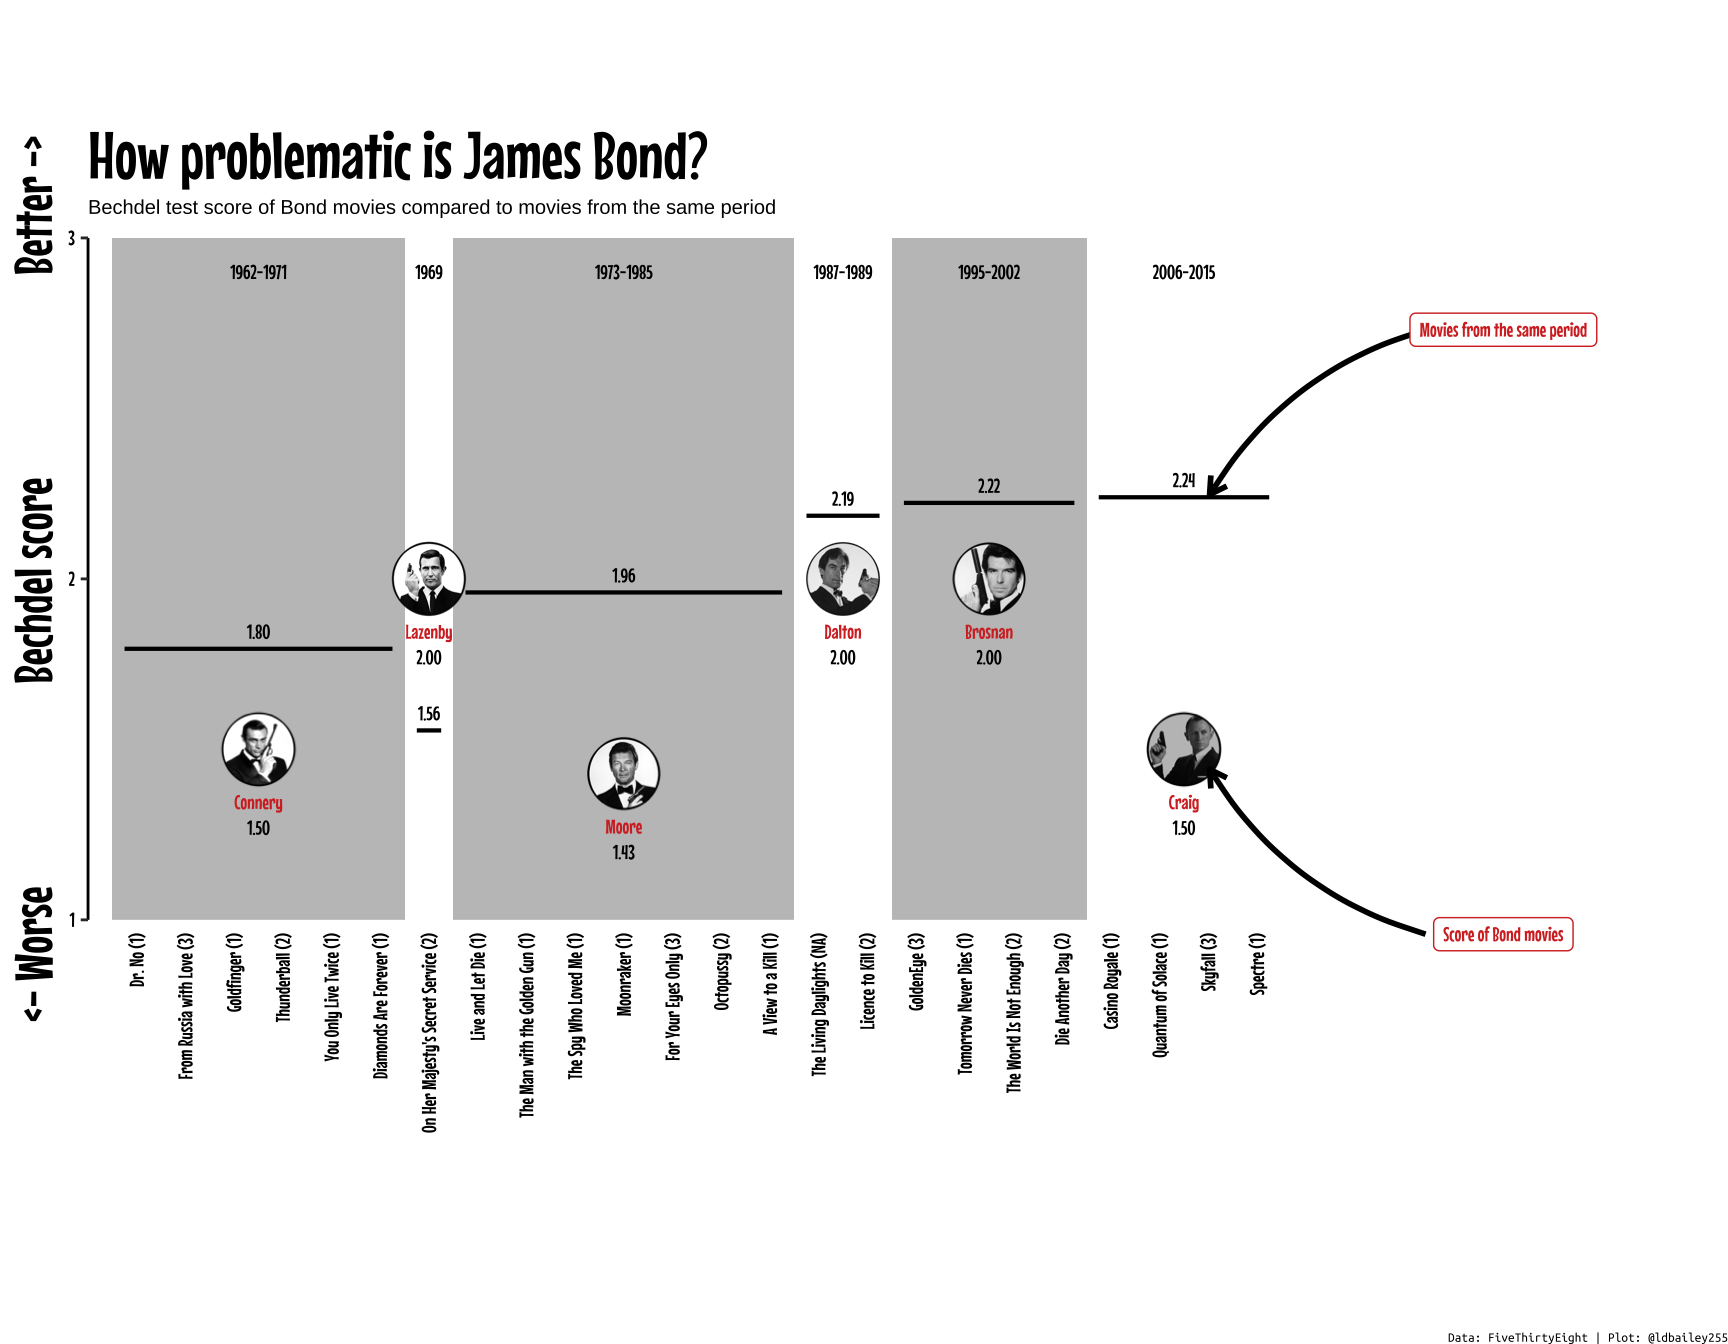
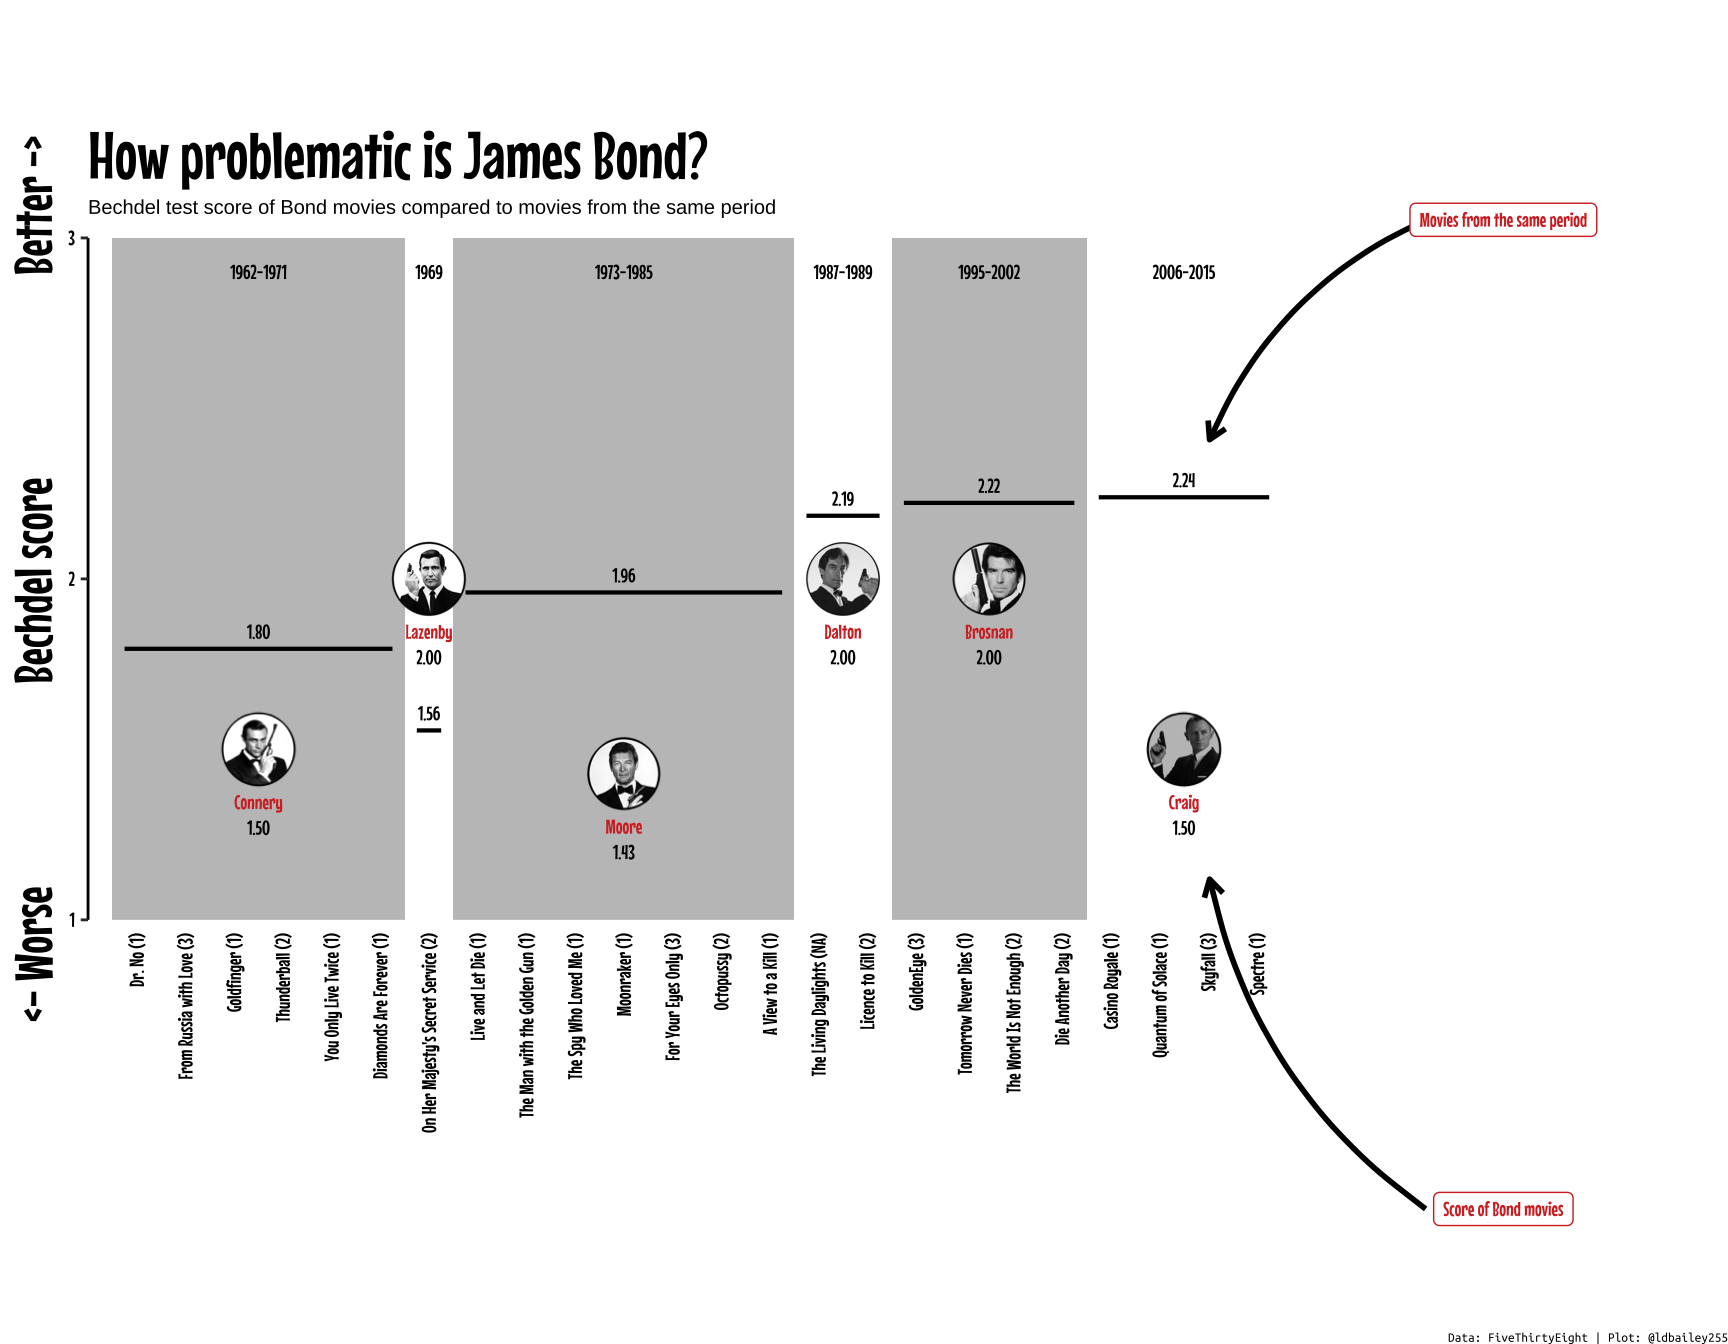
Few more improvements to 007 plot

diff --git a/_site/posts/2021-03-24-tidytuesday-week-11-2021-james-bond-s-bechdel-score-and-adding-images-in-ggplot/index.html b/_site/posts/2021-03-24-tidytuesday-week-11-2021-james-bond-s-bechdel-score-and-adding-images-in-ggplot/index.html
@@ -579,15 +579,15 @@ pre > code.sourceCode > span > a:first-child::before { text-decoration: underlin
 <span id="cb20-34"><a href="#cb20-34" aria-hidden="true" tabindex="-1"></a></span>
 <span id="cb20-35"><a href="#cb20-35" aria-hidden="true" tabindex="-1"></a>main <span class="ot">&lt;-</span> ggplot2<span class="sc">::</span><span class="fu">ggplotGrob</span>(main_plot)</span>
 <span id="cb20-36"><a href="#cb20-36" aria-hidden="true" tabindex="-1"></a></span>
-<span id="cb20-37"><a href="#cb20-37" aria-hidden="true" tabindex="-1"></a>labels <span class="ot">&lt;-</span> <span class="fu">data.frame</span>(<span class="at">x =</span> <span class="fl">0.87</span>, <span class="at">y =</span> <span class="fu">c</span>(<span class="fl">0.65</span>, <span class="fl">0.375</span>),</span>
+<span id="cb20-37"><a href="#cb20-37" aria-hidden="true" tabindex="-1"></a>labels <span class="ot">&lt;-</span> <span class="fu">data.frame</span>(<span class="at">x =</span> <span class="fl">0.87</span>, <span class="at">y =</span> <span class="fu">c</span>(<span class="fl">0.6</span>, <span class="fl">0.375</span>),</span>
 <span id="cb20-38"><a href="#cb20-38" aria-hidden="true" tabindex="-1"></a>                     <span class="at">text =</span> <span class="fu">c</span>(<span class="st">"Movies from the same period"</span>,</span>
 <span id="cb20-39"><a href="#cb20-39" aria-hidden="true" tabindex="-1"></a>                              <span class="st">"Score of Bond movies"</span>))</span>
 <span id="cb20-40"><a href="#cb20-40" aria-hidden="true" tabindex="-1"></a></span>
 <span id="cb20-41"><a href="#cb20-41" aria-hidden="true" tabindex="-1"></a><span class="fu">ggplot</span>()<span class="sc">+</span></span>
 <span id="cb20-42"><a href="#cb20-42" aria-hidden="true" tabindex="-1"></a>  <span class="fu">scale_x_continuous</span>(<span class="at">limits =</span> <span class="fu">c</span>(<span class="dv">0</span>, <span class="dv">1</span>), <span class="at">expand =</span> <span class="fu">c</span>(<span class="dv">0</span>, <span class="dv">0</span>)) <span class="sc">+</span></span>
-<span id="cb20-43"><a href="#cb20-43" aria-hidden="true" tabindex="-1"></a>  <span class="fu">scale_y_continuous</span>(<span class="at">limits =</span> <span class="fu">c</span>(<span class="fl">0.2</span>, <span class="fl">0.8</span>), <span class="at">expand =</span> <span class="fu">c</span>(<span class="dv">0</span>, <span class="dv">0</span>)) <span class="sc">+</span></span>
+<span id="cb20-43"><a href="#cb20-43" aria-hidden="true" tabindex="-1"></a>  <span class="fu">scale_y_continuous</span>(<span class="at">limits =</span> <span class="fu">c</span>(<span class="fl">0.35</span>, <span class="fl">0.65</span>), <span class="at">expand =</span> <span class="fu">c</span>(<span class="dv">0</span>, <span class="dv">0</span>)) <span class="sc">+</span></span>
 <span id="cb20-44"><a href="#cb20-44" aria-hidden="true" tabindex="-1"></a>  <span class="fu">annotation_custom</span>(<span class="at">grob =</span> main, <span class="at">xmin =</span> <span class="dv">0</span>, <span class="at">xmax =</span> <span class="fl">0.75</span>, <span class="at">ymin =</span> <span class="dv">0</span>, <span class="at">ymax =</span> <span class="dv">1</span>) <span class="sc">+</span></span>
-<span id="cb20-45"><a href="#cb20-45" aria-hidden="true" tabindex="-1"></a>  <span class="fu">geom_curve</span>(<span class="fu">aes</span>(<span class="at">x =</span> <span class="fl">0.825</span>, <span class="at">xend =</span> <span class="fl">0.7</span>, <span class="at">y =</span> <span class="fl">0.65</span>, <span class="at">yend =</span> <span class="fl">0.575</span>), <span class="at">curvature =</span> <span class="fl">0.2</span>,</span>
+<span id="cb20-45"><a href="#cb20-45" aria-hidden="true" tabindex="-1"></a>  <span class="fu">geom_curve</span>(<span class="fu">aes</span>(<span class="at">x =</span> <span class="fl">0.825</span>, <span class="at">xend =</span> <span class="fl">0.7</span>, <span class="at">y =</span> <span class="fl">0.6</span>, <span class="at">yend =</span> <span class="fl">0.55</span>), <span class="at">curvature =</span> <span class="fl">0.2</span>,</span>
 <span id="cb20-46"><a href="#cb20-46" aria-hidden="true" tabindex="-1"></a>             <span class="at">arrow =</span> <span class="fu">arrow</span>(<span class="at">length =</span> <span class="fu">unit</span>(<span class="fl">0.1</span>, <span class="st">"inches"</span>)), <span class="at">size =</span> <span class="dv">1</span>) <span class="sc">+</span></span>
 <span id="cb20-47"><a href="#cb20-47" aria-hidden="true" tabindex="-1"></a>  <span class="fu">geom_curve</span>(<span class="fu">aes</span>(<span class="at">x =</span> <span class="fl">0.825</span>, <span class="at">xend =</span> <span class="fl">0.7</span>, <span class="at">y =</span> <span class="fl">0.375</span>, <span class="at">yend =</span> <span class="fl">0.45</span>), <span class="at">curvature =</span> <span class="sc">-</span><span class="fl">0.2</span>,</span>
 <span id="cb20-48"><a href="#cb20-48" aria-hidden="true" tabindex="-1"></a>             <span class="at">arrow =</span> <span class="fu">arrow</span>(<span class="at">length =</span> <span class="fu">unit</span>(<span class="fl">0.1</span>, <span class="st">"inches"</span>)), <span class="at">size =</span> <span class="dv">1</span>) <span class="sc">+</span></span>
